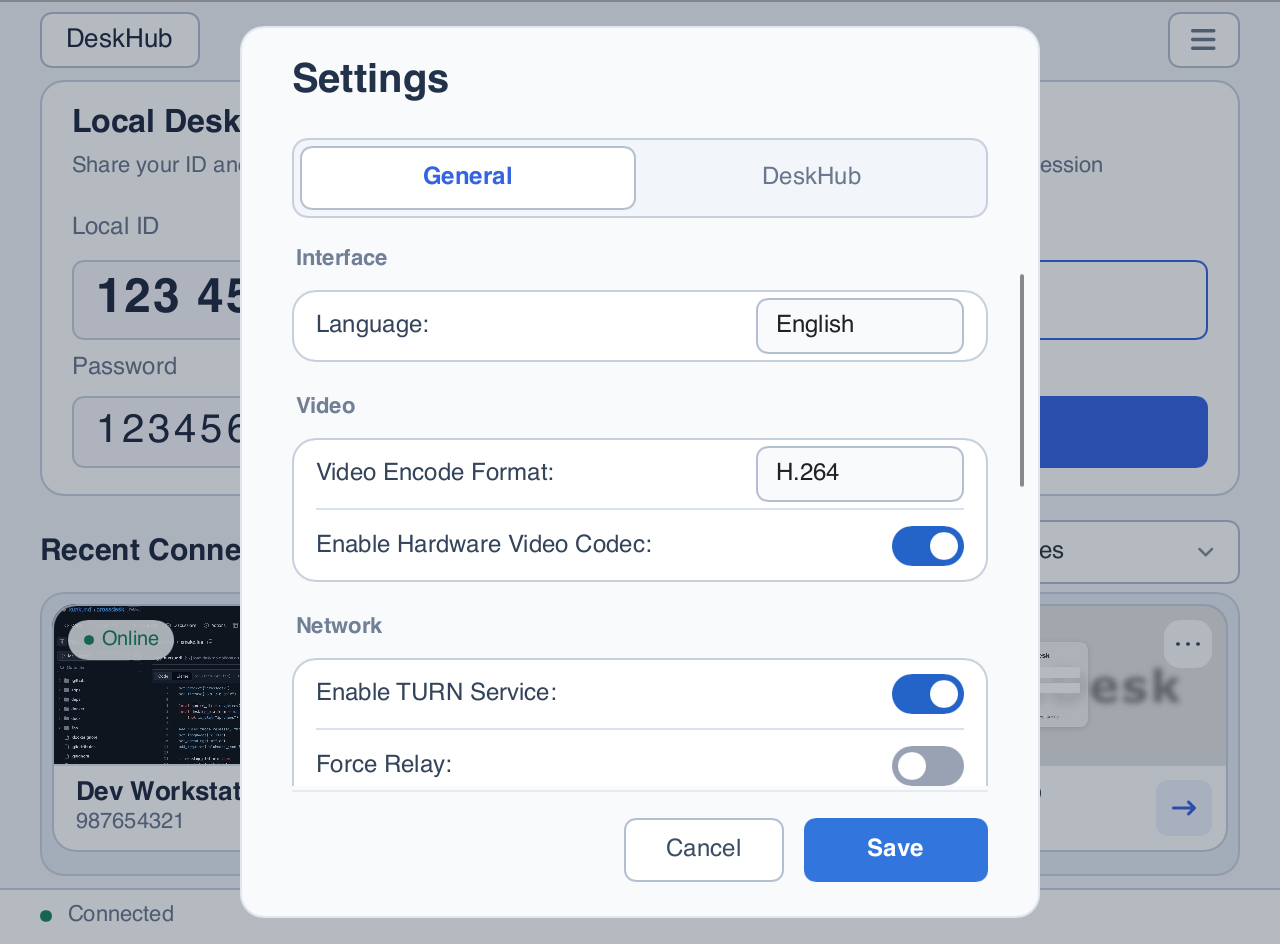
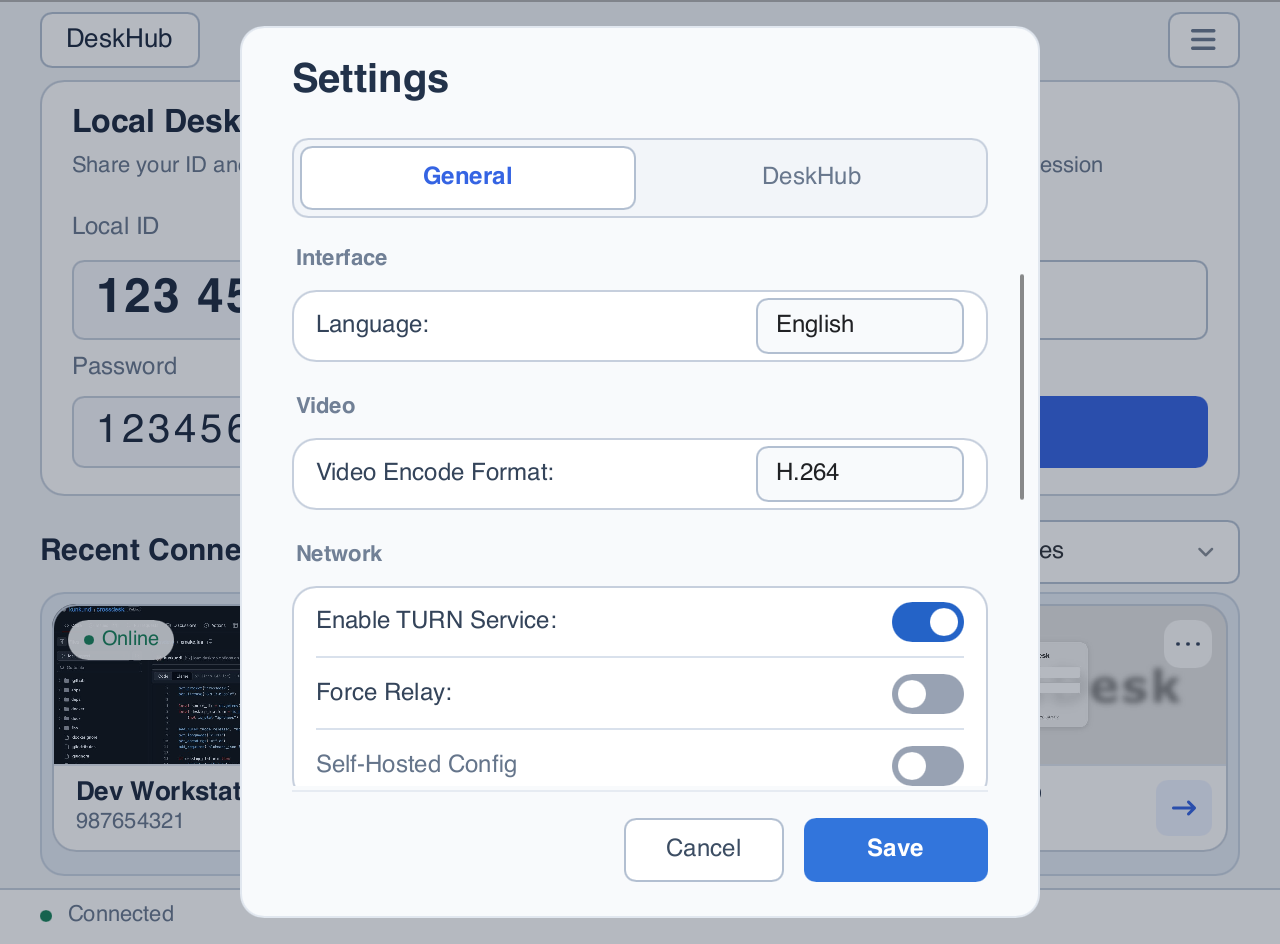
[feat] prefer hardware video codecs by default

Changed region(s): [[0.2188, 0.5222, 0.7812, 0.768], [0.25, 0.7987, 0.4062, 0.8294], [0.75, 0.5222, 0.7812, 0.553]]

diff --git a/apps/desktop/src/gui/application/gui_application.cpp b/apps/desktop/src/gui/application/gui_application.cpp
@@ -1201,7 +1201,7 @@ void GuiApplication::InitializeSettings() {
 
 bool GuiApplication::InitializeSDL() {
 #if (defined(__linux__) && !defined(__OHOS__)) && !defined(__APPLE__)
-  ConfigureLinuxCudaGraphics(config_center_->IsHardwareVideoCodec());
+  ConfigureLinuxCudaGraphics();
   // Standard Wayland top-level windows cannot choose an absolute screen
   // position. Use the session's XWayland compatibility server for the GUI so
   // auxiliary windows such as the controlled-side status window can be
@@ -1477,11 +1477,6 @@ void GuiApplication::ResetSettingsUi(bool gallery_window) {
   auto& main = ui_->Window(gallery_window);
   main->set_language_index(language_button_value_);
   main->set_codec_index(video_encode_format_button_value_);
-  const bool hardware_codec_available =
-      ConfigCenter::IsHardwareVideoCodecAvailable();
-  main->set_hardware_codec_available(hardware_codec_available);
-  main->set_hardware_codec_enabled(hardware_codec_available &&
-                                   enable_hardware_video_codec_);
   main->set_turn_enabled(enable_turn_);
   main->set_force_relay_enabled(config_center_->IsForceRelay());
   main->set_self_hosted_enabled(enable_self_hosted_);
@@ -4293,8 +4288,6 @@ bool GuiApplication::SaveSettingsFromUi(bool gallery_window) {
   language_button_value_ =
       localization::detail::ClampLanguageIndex(main->get_language_index());
   video_encode_format_button_value_ = std::clamp(main->get_codec_index(), 0, 1);
-  enable_hardware_video_codec_ = ConfigCenter::IsHardwareVideoCodecAvailable() &&
-                                  main->get_hardware_codec_enabled();
   enable_turn_ = main->get_turn_enabled();
   enable_self_hosted_ = main->get_self_hosted_enabled();
 #if !defined(__OHOS__)
@@ -4311,7 +4304,6 @@ bool GuiApplication::SaveSettingsFromUi(bool gallery_window) {
   config_center_->SetVideoEncodeFormat(
       static_cast<ConfigCenter::VIDEO_ENCODE_FORMAT>(
           video_encode_format_button_value_));
-  config_center_->SetHardwareVideoCodec(enable_hardware_video_codec_);
   config_center_->SetTurn(enable_turn_, main->get_force_relay_enabled());
   main->set_force_relay_enabled(config_center_->IsForceRelay());
 #if !defined(__OHOS__)
@@ -4378,7 +4370,6 @@ void GuiApplication::ApplySettingsFromConfig(bool reconnect) {
   localization_language_index_ = localization::detail::ClampLanguageIndex(language_button_value_);
   localization_language_ = config_center_->GetLanguage();
   video_encode_format_button_value_ = static_cast<int>(config_center_->GetVideoEncodeFormat());
-  enable_hardware_video_codec_ = config_center_->IsHardwareVideoCodec();
   enable_turn_ = config_center_->IsEnableTurn();
   enable_self_hosted_ = config_center_->IsSelfHosted();
   enable_autostart_ = config_center_->IsEnableAutostart();
@@ -4393,7 +4384,6 @@ void GuiApplication::ApplySettingsFromConfig(bool reconnect) {
   std::snprintf(signal_server_port_self_, sizeof(signal_server_port_self_), "%s", port_text.c_str());
   language_button_value_last_ = language_button_value_;
   video_encode_format_button_value_last_ = video_encode_format_button_value_;
-  enable_hardware_video_codec_last_ = enable_hardware_video_codec_;
   enable_turn_last_ = enable_turn_;
   enable_self_hosted_last_ = enable_self_hosted_;
   enable_autostart_last_ = enable_autostart_;
@@ -4412,17 +4402,14 @@ void GuiApplication::ApplySettingsFromConfig(bool reconnect) {
     // configuration. Keep the application and its console running throughout.
     CloseAllRemoteSessions();
   } else {
-    const bool hardware = config_center_->IsHardwareVideoCodec();
     const bool av1 = config_center_->GetVideoEncodeFormat() ==
                      ConfigCenter::VIDEO_ENCODE_FORMAT::AV1;
     const auto turn = static_cast<TurnMode>(config_center_->GetTurnMode());
-    if (hardware != params_.hardware_acceleration || av1 != params_.av1_encoding ||
-        turn != params_.turn_mode) {
+    if (av1 != params_.av1_encoding || turn != params_.turn_mode) {
       // Update the listening peer for incoming connections and the template
       // copied by ConnectTo for outgoing connections. Existing sessions retain
       // the codec/ICE snapshot with which they negotiated.
-      if (!peer_ || UpdateConnectionSettings(peer_, hardware, av1, turn) == 0) {
-        params_.hardware_acceleration = hardware;
+      if (!peer_ || UpdateConnectionSettings(peer_, true, av1, turn) == 0) {
         params_.av1_encoding = av1;
         params_.turn_mode = turn;
       } else {

diff --git a/apps/desktop/src/gui/assets/localization/localization_data.h b/apps/desktop/src/gui/assets/localization/localization_data.h
@@ -78,13 +78,11 @@ struct TranslationRow {
   X(console_settings_next_file, u8"已保存，将用于后续接收的文件。", "Saved; applies to subsequently received files.", u8"Сохранено. Будет применено к следующим получаемым файлам.") \
   X(console_settings_autostart, u8"已保存，在下次图形桌面登录时生效。", "Saved; applies at the next graphical desktop login.", u8"Сохранено. Будет применено при следующем входе в графический сеанс.") \
   X(console_settings_daemon, u8"已保存，普通模式重启后生效；无头控制台仍保持前台运行。", "Saved for the next normal-mode start; the headless console stays in the foreground.", u8"Сохранено для следующего запуска в обычном режиме. Консоль остаётся на переднем плане.") \
-  X(console_settings_hardware_unavailable, u8"当前构建不支持硬件编解码，未保存。", "Hardware codecs are unavailable in this build; not saved.", u8"Аппаратные кодеки недоступны в этой сборке. Не сохранено.") \
   X(console_settings_server_required, u8"请先设置有效的服务器地址和端口，再启用自托管。", "Set a valid server host and port before enabling self-hosting.", u8"Укажите адрес и порт сервера перед включением собственного сервера.") \
   X(console_settings_path_invalid, u8"请选择已存在且可写的绝对目录路径；default 使用默认目录。", "Use an existing writable absolute directory, or default for the default location.", u8"Укажите существующий доступный для записи абсолютный путь к каталогу или default.") \
   X(console_settings_readonly, u8"该选项由系统或控制端管理，不可在此修改。", "This option is managed by the system or controller and is read-only here.", u8"Этот параметр управляется системой или клиентом и здесь недоступен для изменения.") \
   X(console_setting_language, u8"语言", "Language", u8"Язык") \
   X(console_setting_codec, u8"视频编码", "Video codec", u8"Видеокодек") \
-  X(console_setting_hardware, u8"硬件编解码", "Hardware codecs", u8"Аппаратные кодеки") \
   X(console_setting_turn, u8"中继模式", "TURN relay mode", u8"Режим ретрансляции TURN") \
   X(console_setting_self_hosted, u8"自托管", "Self-hosted server", u8"Собственный сервер") \
   X(console_setting_host, u8"服务器地址", "Server host", u8"Адрес сервера") \
@@ -234,8 +232,6 @@ struct TranslationRow {
     "Video Encode Format:", u8"Формат кодека видео:")                          \
   X(av1, u8"AV1", "AV1", "AV1")                                                \
   X(h264, u8"H.264", "H.264", "H.264")                                         \
-  X(enable_hardware_video_codec, u8"启用硬件编解码器:",                        \
-    "Enable Hardware Video Codec:", u8"Использовать аппаратный кодек:")        \
   X(enable_turn, u8"启用中继服务:",                                            \
     "Enable TURN Service:", u8"Включить TURN-сервис:")                         \
   X(force_relay, u8"强制中继连接:", "Force Relay:", u8"Только через реле:")   \

diff --git a/apps/desktop/src/platform/linux/headless/headless_settings.cpp b/apps/desktop/src/platform/linux/headless/headless_settings.cpp
@@ -35,7 +35,6 @@ std::vector<ConsoleSetting> GetConsoleSettings(const ConfigCenter& config) {
   return {
       {"language", "console_setting_language", languages[language], "zh-CN / en-US / ru-RU"},
       {"codec", "console_setting_codec", config.GetVideoEncodeFormat() == ConfigCenter::VIDEO_ENCODE_FORMAT::AV1 ? "av1" : "h264", "h264 / av1"},
-      {"hardware", "console_setting_hardware", OnOff(config.IsHardwareVideoCodec()), "on / off"},
       {"turn", "console_setting_turn", turn_modes[turn], "off / auto / udp / tcp"},
       {"self_hosted", "console_setting_self_hosted", OnOff(config.IsSelfHosted()), "on / off"},
       {"server_host", "console_setting_host", config.GetSignalServerHost(), "example.com"},
@@ -54,7 +53,7 @@ SettingResult ApplyConsoleSetting(ConfigCenter& config, const std::string& key,
     result.message = "console_settings_readonly";
     return result;
   }
-  const bool network = key == "codec" || key == "hardware" || key == "turn" ||
+  const bool network = key == "codec" || key == "turn" ||
                        key == "self_hosted" || key == "server_host" || key == "server_port";
   if (network && connection_busy) {
     result.message = "console_settings_busy";
@@ -111,13 +110,7 @@ SettingResult ApplyConsoleSetting(ConfigCenter& config, const std::string& key,
     if (!boolean) return result;
     const bool enabled = *boolean;
     canonical = OnOff(enabled);
-    if (key == "hardware") {
-      if (enabled && !ConfigCenter::IsHardwareVideoCodecAvailable()) {
-        result.message = "console_settings_hardware_unavailable";
-        return result;
-      }
-      save = [&config, enabled] { return config.SetHardwareVideoCodec(enabled); };
-    } else if (key == "self_hosted") {
+    if (key == "self_hosted") {
       if (enabled && (config.GetSignalServerHost().empty() || config.GetSignalServerPort() <= 0 || config.GetSignalServerPort() > 65535)) {
         result.message = "console_settings_server_required";
         return result;
@@ -138,7 +131,7 @@ SettingResult ApplyConsoleSetting(ConfigCenter& config, const std::string& key,
     } else return result;
   }
   for (const auto& setting : GetConsoleSettings(config)) {
-    if (key != "autostart" && key != "hardware" && setting.key == key && setting.value == canonical) {
+    if (key != "autostart" && setting.key == key && setting.value == canonical) {
       return {true, SettingEffect::none, "console_settings_unchanged"};
     }
   }
@@ -148,7 +141,7 @@ SettingResult ApplyConsoleSetting(ConfigCenter& config, const std::string& key,
   if (previous_server != GetSignalServerSettings(config)) {
     effect = SettingEffect::reconnect;
     message = "console_settings_reconnect";
-  } else if (key == "codec" || key == "hardware" || key == "turn") {
+  } else if (key == "codec" || key == "turn") {
     effect = SettingEffect::next_connection;
     message = "console_settings_next_connection";
   }

diff --git a/apps/desktop/src/config_center/config_center.cpp b/apps/desktop/src/config_center/config_center.cpp
@@ -41,6 +41,8 @@ int ConfigCenter::Load() {
   }
 
   bool persist_config_migration = false;
+  // Hardware codecs are always preferred, with software fallback in MiniRTC.
+  persist_config_migration |= ini_->Delete(section_, "hardware_video_codec");
   // These options now belong only to the active remote connection. Discard
   // legacy local defaults so they cannot affect this host or new connections.
   persist_config_migration |= ini_->Delete(section_, "video_quality");
@@ -78,8 +80,6 @@ int ConfigCenter::Load() {
       ini_->GetLongValue(section_, "video_encode_format",
                         static_cast<long>(video_encode_format_)));
 
-  hardware_video_codec_ = ini_->GetBoolValue(section_, "hardware_video_codec",
-                                            hardware_video_codec_);
   const char* turn_mode_value = ini_->GetValue(section_, "turn_mode", nullptr);
   if (turn_mode_value != nullptr && strlen(turn_mode_value) > 0) {
     const long parsed_turn_mode = ini_->GetLongValue(
@@ -205,7 +205,6 @@ int ConfigCenter::Save() {
                     static_cast<long>(screen_capture_method_));
   ini_->SetLongValue(section_, "video_encode_format",
                     static_cast<long>(video_encode_format_));
-  ini_->SetBoolValue(section_, "hardware_video_codec", hardware_video_codec_);
   ini_->SetLongValue(section_, "turn_mode", static_cast<long>(turn_mode_));
   ini_->SetBoolValue(section_, "enable_turn",
                     turn_mode_ != TURN_MODE::DISABLED);
@@ -268,13 +267,6 @@ int ConfigCenter::SetVideoEncodeFormat(VIDEO_ENCODE_FORMAT format) {
   if (format != VIDEO_ENCODE_FORMAT::H264 && format != VIDEO_ENCODE_FORMAT::AV1) return -1;
   if (StoreValues({{"video_encode_format", std::to_string(static_cast<int>(format))}}) != 0) return -1;
   video_encode_format_ = format;
-  return 0;
-}
-
-int ConfigCenter::SetHardwareVideoCodec(bool enabled) {
-  if (enabled && !IsHardwareVideoCodecAvailable()) return -1;
-  if (StoreValues({{"hardware_video_codec", enabled ? "true" : "false"}}) != 0) return -1;
-  hardware_video_codec_ = enabled;
   return 0;
 }
 
@@ -423,19 +415,6 @@ ScreenCaptureMethod ConfigCenter::GetScreenCaptureMethod() const {
 
 ConfigCenter::VIDEO_ENCODE_FORMAT ConfigCenter::GetVideoEncodeFormat() const {
   return video_encode_format_;
-}
-
-bool ConfigCenter::IsHardwareVideoCodecAvailable() {
-#if defined(_WIN32) || defined(__APPLE__) ||                              \
-    (defined(__linux__) && !defined(__aarch64__) && !defined(__arm__) && USE_CUDA)
-  return true;
-#else
-  return false;
-#endif
-}
-
-bool ConfigCenter::IsHardwareVideoCodec() const {
-  return IsHardwareVideoCodecAvailable() && hardware_video_codec_;
 }
 
 ConfigCenter::TURN_MODE ConfigCenter::GetTurnMode() const {

diff --git a/apps/desktop/src/config_center/config_center.h b/apps/desktop/src/config_center/config_center.h
@@ -37,7 +37,6 @@ class ConfigCenter {
   int SetLanguage(LANGUAGE language);
   int SetScreenCaptureMethod(ScreenCaptureMethod method);
   int SetVideoEncodeFormat(VIDEO_ENCODE_FORMAT video_encode_format);
-  int SetHardwareVideoCodec(bool hardware_video_codec);
   int SetTurnMode(TURN_MODE turn_mode);
   int SetTurn(bool enable_turn, bool force_relay);
   int SetServerHost(const std::string& signal_server_host);
@@ -57,9 +56,6 @@ class ConfigCenter {
   LANGUAGE GetLanguage() const;
   ScreenCaptureMethod GetScreenCaptureMethod() const;
   VIDEO_ENCODE_FORMAT GetVideoEncodeFormat() const;
-  // Whether this build includes a hardware video codec backend.
-  static bool IsHardwareVideoCodecAvailable();
-  bool IsHardwareVideoCodec() const;
   TURN_MODE GetTurnMode() const;
   bool IsEnableTurn() const;
   bool IsForceRelay() const;
@@ -92,7 +88,6 @@ class ConfigCenter {
   LANGUAGE language_ = LANGUAGE::CHINESE;
   ScreenCaptureMethod screen_capture_method_ = ScreenCaptureMethod::Auto;
   VIDEO_ENCODE_FORMAT video_encode_format_ = VIDEO_ENCODE_FORMAT::H264;
-  bool hardware_video_codec_ = false;
   TURN_MODE turn_mode_ = TURN_MODE::AUTO_UDP_TCP;
   std::string signal_server_host_ = "";
   std::string signal_server_host_default_ = "api.crossdesk.cn";

diff --git a/apps/desktop/tests/slint_ui_smoke_test.cpp b/apps/desktop/tests/slint_ui_smoke_test.cpp
@@ -160,7 +160,6 @@ bool ConfigureDocumentationDemo(
       std::make_shared<slint::VectorModel<crossdesk::ui::RecentConnection>>(
           std::move(connections)));
   window->set_signal_connected(true);
-  window->set_hardware_codec_available(true);
 #if defined(_WIN32) || defined(__APPLE__) || defined(__linux__)
   window->set_privacy_setting_available(true);
 #endif
@@ -937,7 +936,6 @@ int main() {
   window->set_custom_titlebar(true);
   window->set_wayland_titlebar(true);
   window->set_settings_session_active(true);
-  window->set_hardware_codec_available(false);
   window->set_portable_service_settings_visible(true);
   assert(std::string(window->get_local_id()) == "123 456 789");
   assert(window->get_connection_dialog_open());
@@ -945,7 +943,6 @@ int main() {
   assert(window->get_custom_titlebar());
   assert(window->get_wayland_titlebar());
   assert(window->get_settings_session_active());
-  assert(!window->get_hardware_codec_available());
   assert(window->get_portable_service_settings_visible());
   if (const char *snapshot_path =
           std::getenv("CROSSDESK_MAIN_UI_SNAPSHOT")) {

diff --git a/apps/desktop/src/gui/features/settings/settings_manager.cpp b/apps/desktop/src/gui/features/settings/settings_manager.cpp
@@ -465,8 +465,6 @@ int SettingsManager::Load() {
       static_cast<int>(owner_.config_center_->GetLanguage()));
   owner_.video_encode_format_button_value_ =
       static_cast<int>(owner_.config_center_->GetVideoEncodeFormat());
-  owner_.enable_hardware_video_codec_ =
-      owner_.config_center_->IsHardwareVideoCodec();
   owner_.enable_turn_ = owner_.config_center_->IsEnableTurn();
   owner_.enable_self_hosted_ = owner_.config_center_->IsSelfHosted();
   owner_.enable_autostart_ = owner_.config_center_->IsEnableAutostart();
@@ -486,8 +484,6 @@ int SettingsManager::Load() {
   owner_.language_button_value_last_ = owner_.language_button_value_;
   owner_.video_encode_format_button_value_last_ =
       owner_.video_encode_format_button_value_;
-  owner_.enable_hardware_video_codec_last_ =
-      owner_.enable_hardware_video_codec_;
   owner_.enable_turn_last_ = owner_.enable_turn_;
   owner_.enable_self_hosted_last_ = owner_.enable_self_hosted_;
   owner_.enable_autostart_last_ = owner_.enable_autostart_;

diff --git a/apps/desktop/src/platform/linux/gui/cuda_graphics.cpp b/apps/desktop/src/platform/linux/gui/cuda_graphics.cpp
@@ -9,12 +9,8 @@
 
 namespace crossdesk {
 
-void ConfigureLinuxCudaGraphics(bool hardware_acceleration) {
+void ConfigureLinuxCudaGraphics() {
 #if USE_CUDA && (defined(__x86_64__) || defined(__amd64__))
-  if (!hardware_acceleration) {
-    return;
-  }
-
   // Respect explicit GPU/driver selection, including a request to use Mesa
   // or software rendering. Native frames can still use the CPU fallback.
   for (const char* name : {"__NV_PRIME_RENDER_OFFLOAD",
@@ -45,8 +41,6 @@ void ConfigureLinuxCudaGraphics(bool hardware_acceleration) {
     return;
   }
   LOG_INFO("Selected NVIDIA PRIME rendering for CUDA/OpenGL video interop");
-#else
-  (void)hardware_acceleration;
 #endif
 }
 

diff --git a/apps/desktop/src/gui/runtime/gui_runtime.cpp b/apps/desktop/src/gui/runtime/gui_runtime.cpp
@@ -237,7 +237,8 @@ int GuiRuntime::CreateConnectionPeer() {
   strncpy(params_.log_path, dll_log_path_.c_str(),
           sizeof(params_.log_path) - 1);
   params_.log_path[sizeof(params_.log_path) - 1] = '\0';
-  params_.hardware_acceleration = config_center_->IsHardwareVideoCodec();
+  // MiniRTC selects the available hardware backend and falls back to software.
+  params_.hardware_acceleration = true;
 #if defined(_WIN32) || (defined(__linux__) && !defined(__OHOS__)) || defined(__APPLE__)
   // Windows and Linux retain pooled CPU NV12 frames or CUDA device frames;
   // macOS retains VideoToolbox CVPixelBuffers for direct Metal sampling. All

diff --git a/apps/desktop/src/gui/runtime/runtime_state.h b/apps/desktop/src/gui/runtime/runtime_state.h
@@ -149,14 +149,12 @@ struct UserSettingsState {
   char connection_login_identity_[17] = "";
   int language_button_value_ = 0;
   int video_encode_format_button_value_ = 0;
-  bool enable_hardware_video_codec_ = true;
   bool enable_turn_ = true;
   char signal_server_ip_[256] = "api.crossdesk.cn";
   char signal_server_port_[6] = "9099";
   bool enable_self_hosted_ = false;
   int language_button_value_last_ = 0;
   int video_encode_format_button_value_last_ = 0;
-  bool enable_hardware_video_codec_last_ = false;
   bool enable_turn_last_ = true;
   bool enable_self_hosted_last_ = false;
   bool enable_autostart_ = false;

diff --git a/apps/desktop/src/gui/features/settings/settings_manager.h b/apps/desktop/src/gui/features/settings/settings_manager.h
@@ -63,7 +63,7 @@ private:
     int legacy_video_quality;
     int legacy_video_frame_rate;
     int video_encode_format;
-    bool enable_hardware_video_codec;
+    bool legacy_enable_hardware_video_codec;
     bool enable_turn;
     bool enable_srtp;
     unsigned char key[16];
@@ -77,7 +77,7 @@ private:
     int legacy_video_quality;
     int legacy_video_frame_rate;
     int video_encode_format;
-    bool enable_hardware_video_codec;
+    bool legacy_enable_hardware_video_codec;
     bool enable_turn;
     bool enable_srtp;
     unsigned char key[16];

diff --git a/apps/desktop/src/app/main.cpp b/apps/desktop/src/app/main.cpp
@@ -208,8 +208,6 @@ int HandleServiceCliCommand(const std::string& command) {
           destination.SetTurnMode(source.GetTurnMode()) == 0 &&
           destination.SetVideoEncodeFormat(source.GetVideoEncodeFormat()) ==
               0 &&
-          destination.SetHardwareVideoCodec(source.IsHardwareVideoCodec()) ==
-              0 &&
           destination.SetScreenCaptureMethod(
               crossdesk::ScreenCaptureMethod::Auto) == 0 &&
           destination.SetPrivacyScreen(false) == 0 &&
